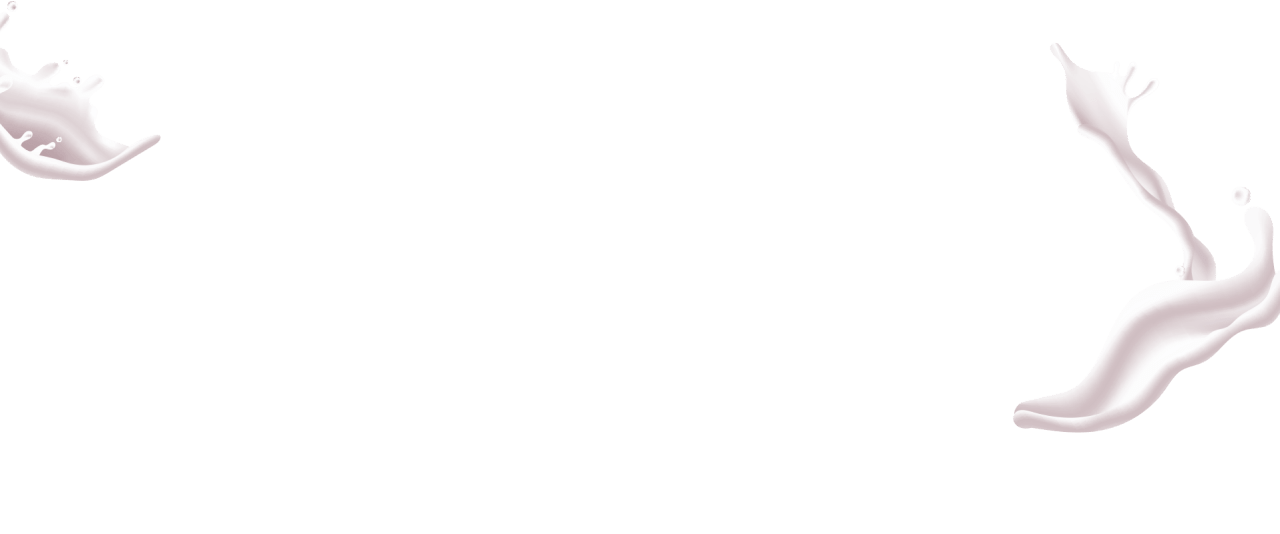
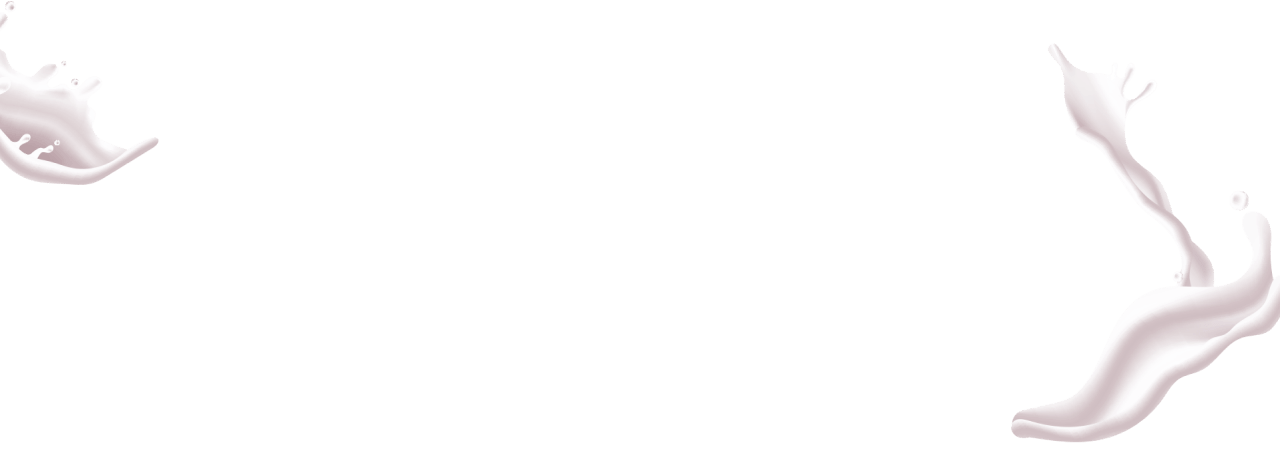
changed pictures milk for desctop styles

diff --git a/src/sass/layouts/_about.scss b/src/sass/layouts/_about.scss
@@ -26,7 +26,7 @@
   background-image: url('../images/about/milk-mobile1.png');
   background-repeat: no-repeat;
   @media (min-width: 1280px) {
-    background-position-y: 180%;
+    background-position: bottom;
   }
   @media (min-resolution: 2dppx) {
     background-image: url('../images/about/milk-mobile2.png');
